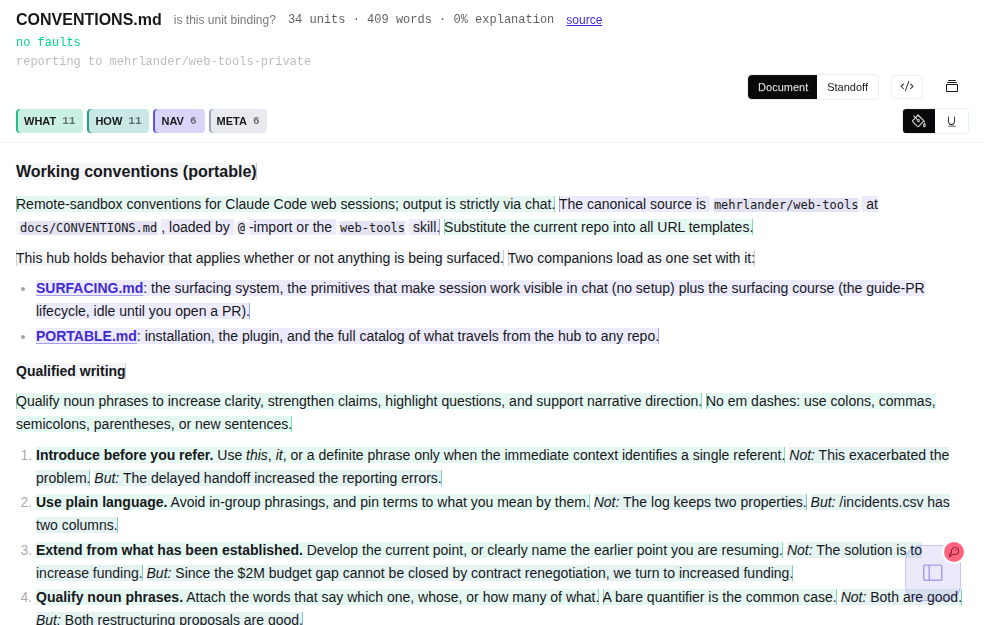
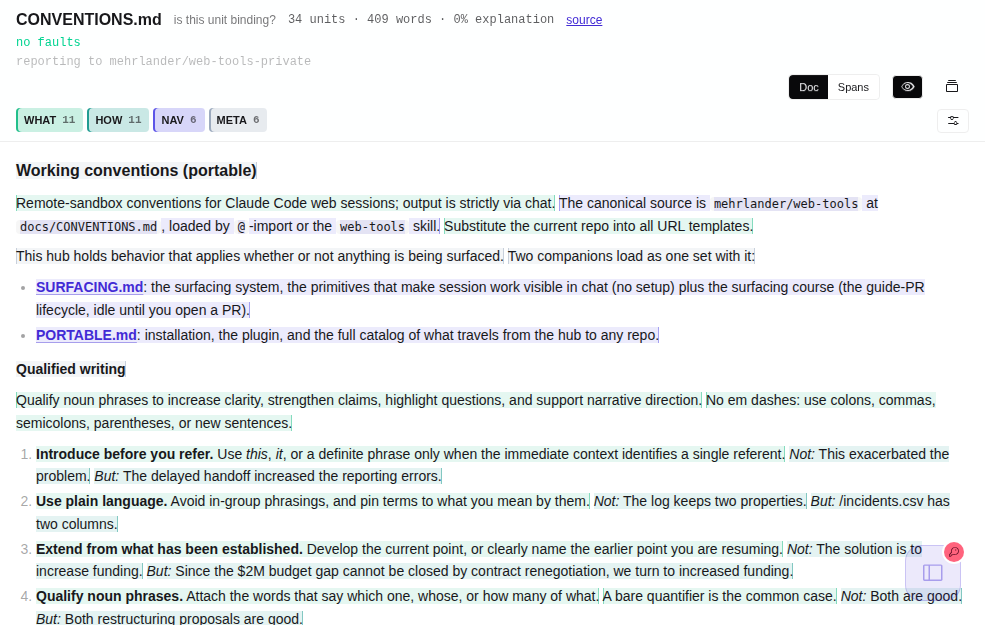
audit-render: Doc and Spans, an eye for rendered, marks in a settings menu
The top control reads Doc and Spans. The raw toggle becomes a ph-eye
button, pressed when the rendered form is showing. Fill and Underline
move from a segmented control into a display-settings dropdown
(ph-sliders-horizontal), following the diff tool's menu with a titled
section per setting. The Spans scenario follows the rename.

Claude-Session: https://claude.ai/code/session_01UshAzoRR1in7ikmt3REzQ7

diff --git a/pages/audit-render.html b/pages/audit-render.html
@@ -1976,19 +1976,19 @@ window.__audit = {
              with the other two. -->
         <div class="join border border-base-300 overflow-hidden rounded-[var(--radius-field)] ml-auto" aria-label="what is on screen">
           <button class="join-item btn btn-xs h-6 min-h-0 px-2.5 border-none transition-none font-normal" :class="view !== 'standoff' ? 'btn-neutral' : 'btn-ghost bg-base-100'"
-                  @click="view = docView; paint()">Document</button>
+                  @click="view = docView; paint()">Doc</button>
           <button class="join-item btn btn-xs h-6 min-h-0 px-2.5 border-none transition-none font-normal" :class="view === 'standoff' ? 'btn-neutral' : 'btn-ghost bg-base-100'"
-                  @click="view = 'standoff'">Standoff</button>
+                  @click="view = 'standoff'">Spans</button>
         </div>
-        <!-- Raw, on or off, for whichever object is on screen: markdown instead
-             of the formatted document, standoff.json instead of the table. One
-             icon, as the Map view's deck does it, so the row does not wrap. -->
+        <!-- Rendered, on or off, for whichever object is on screen: the
+             formatted document or the spans table when on, the markdown or
+             standoff.json when off. -->
         <button class="btn btn-xs h-6 min-h-0 px-2 border border-base-300 transition-none"
-                :class="form === 'raw' ? 'btn-neutral' : 'btn-ghost bg-base-100'"
-                :aria-pressed="form === 'raw'"
-                :title="form === 'raw' ? 'Showing raw; tap for rendered' : 'Show raw'"
-                aria-label="raw" @click="setForm(form === 'raw' ? 'rendered' : 'raw')">
-          <i class="ph ph-code text-sm"></i></button>
+                :class="form === 'rendered' ? 'btn-neutral' : 'btn-ghost bg-base-100'"
+                :aria-pressed="form === 'rendered'"
+                :title="form === 'rendered' ? 'Rendered; tap for raw' : 'Raw; tap for rendered'"
+                aria-label="rendered" @click="setForm(form === 'rendered' ? 'raw' : 'rendered')">
+          <i class="ph ph-eye text-sm"></i></button>
         <button class="btn btn-xs btn-ghost h-6 min-h-0 px-2" @click="deck()"
                 title="Read by section" aria-label="Read by section"><i class="ph ph-cards-three text-base"></i></button>
         <div class="join" x-show="patch.length" x-cloak>
@@ -2021,14 +2021,22 @@ window.__audit = {
           </button>
         </template>
         </div>
-        <!-- What the colour is spent on. -->
+        <!-- How the colour is drawn. -->
         <div class="flex items-center gap-1 shrink-0">
-          <div class="join border border-base-300 overflow-hidden rounded-[var(--radius-field)]" aria-label="unit treatment">
-            <template x-for="t in [['fill', 'ph-paint-bucket', 'Tint the whole unit'], ['underline', 'ph-text-underline', 'Underline the unit']]" :key="t[0]">
-              <button class="join-item btn btn-xs h-6 min-h-0 px-2.5 normal-case border-none transition-none font-normal px-2" :aria-label="t[2]" :title="t[2]"
-                      :class="mark === t[0] ? 'btn-neutral' : 'btn-ghost bg-base-100'"
-                      @click="mark = t[0]; paint()"><i class="ph text-sm" :class="t[1]"></i></button>
-            </template>
+          <!-- Display settings, the diff tool's pattern: a menu with a titled
+               section per setting. -->
+          <div class="dropdown dropdown-end">
+            <button tabindex="0" class="btn btn-ghost btn-xs h-6 min-h-0 px-2 border border-base-300"
+                    title="Display settings" aria-label="Display settings">
+              <i class="ph ph-sliders-horizontal text-sm"></i></button>
+            <ul tabindex="0" class="dropdown-content menu menu-sm bg-base-100 rounded-box border border-base-300 shadow-lg z-50 w-56 mt-1">
+              <li class="menu-title">Unit marks</li>
+              <template x-for="t in [['fill', 'ph-paint-bucket', 'Tint the whole unit'], ['underline', 'ph-text-underline', 'Underline the unit']]" :key="t[0]">
+                <li><a :class="mark === t[0] && 'menu-active'" @click="mark = t[0]; paint()">
+                  <i class="ph" :class="t[1]"></i><span x-text="t[2]"></span>
+                  <i class="ph ph-check ml-auto" x-show="mark === t[0]"></i></a></li>
+              </template>
+            </ul>
           </div>
         </div>
       </div>
